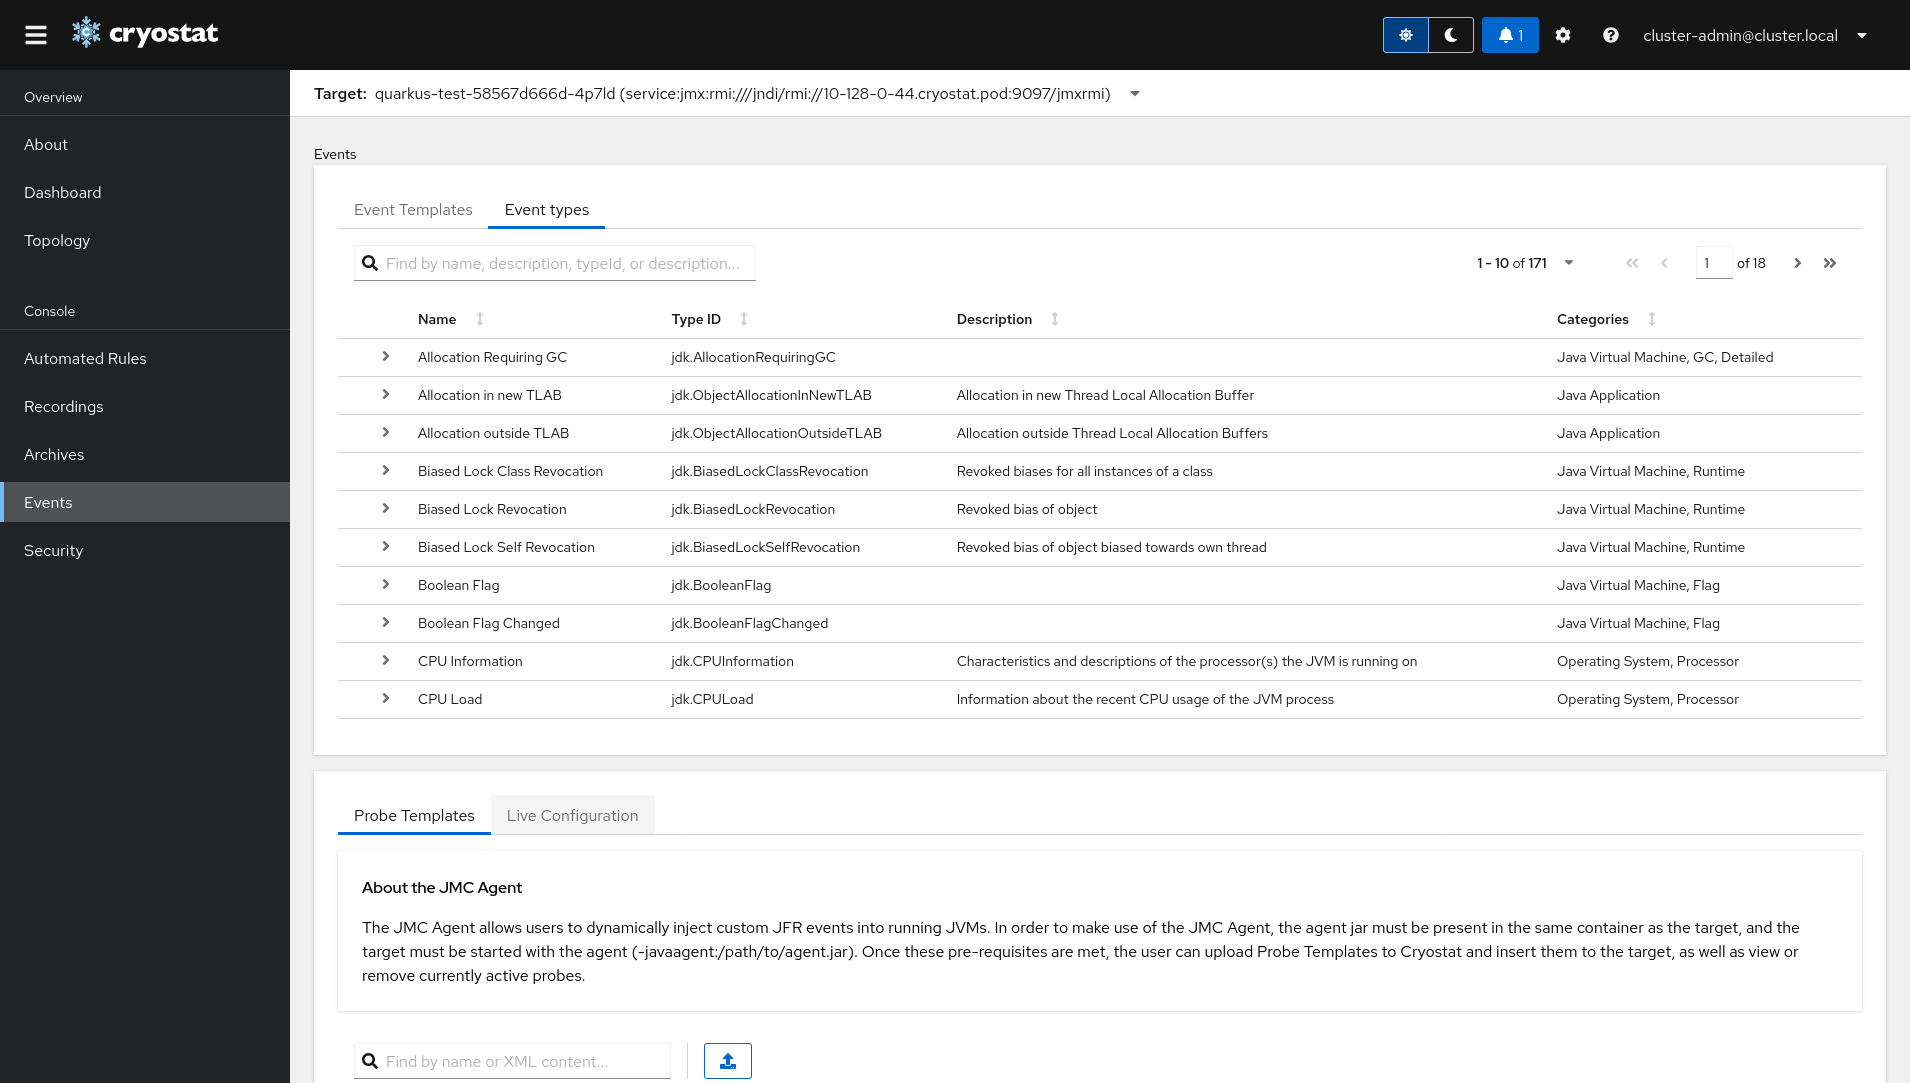
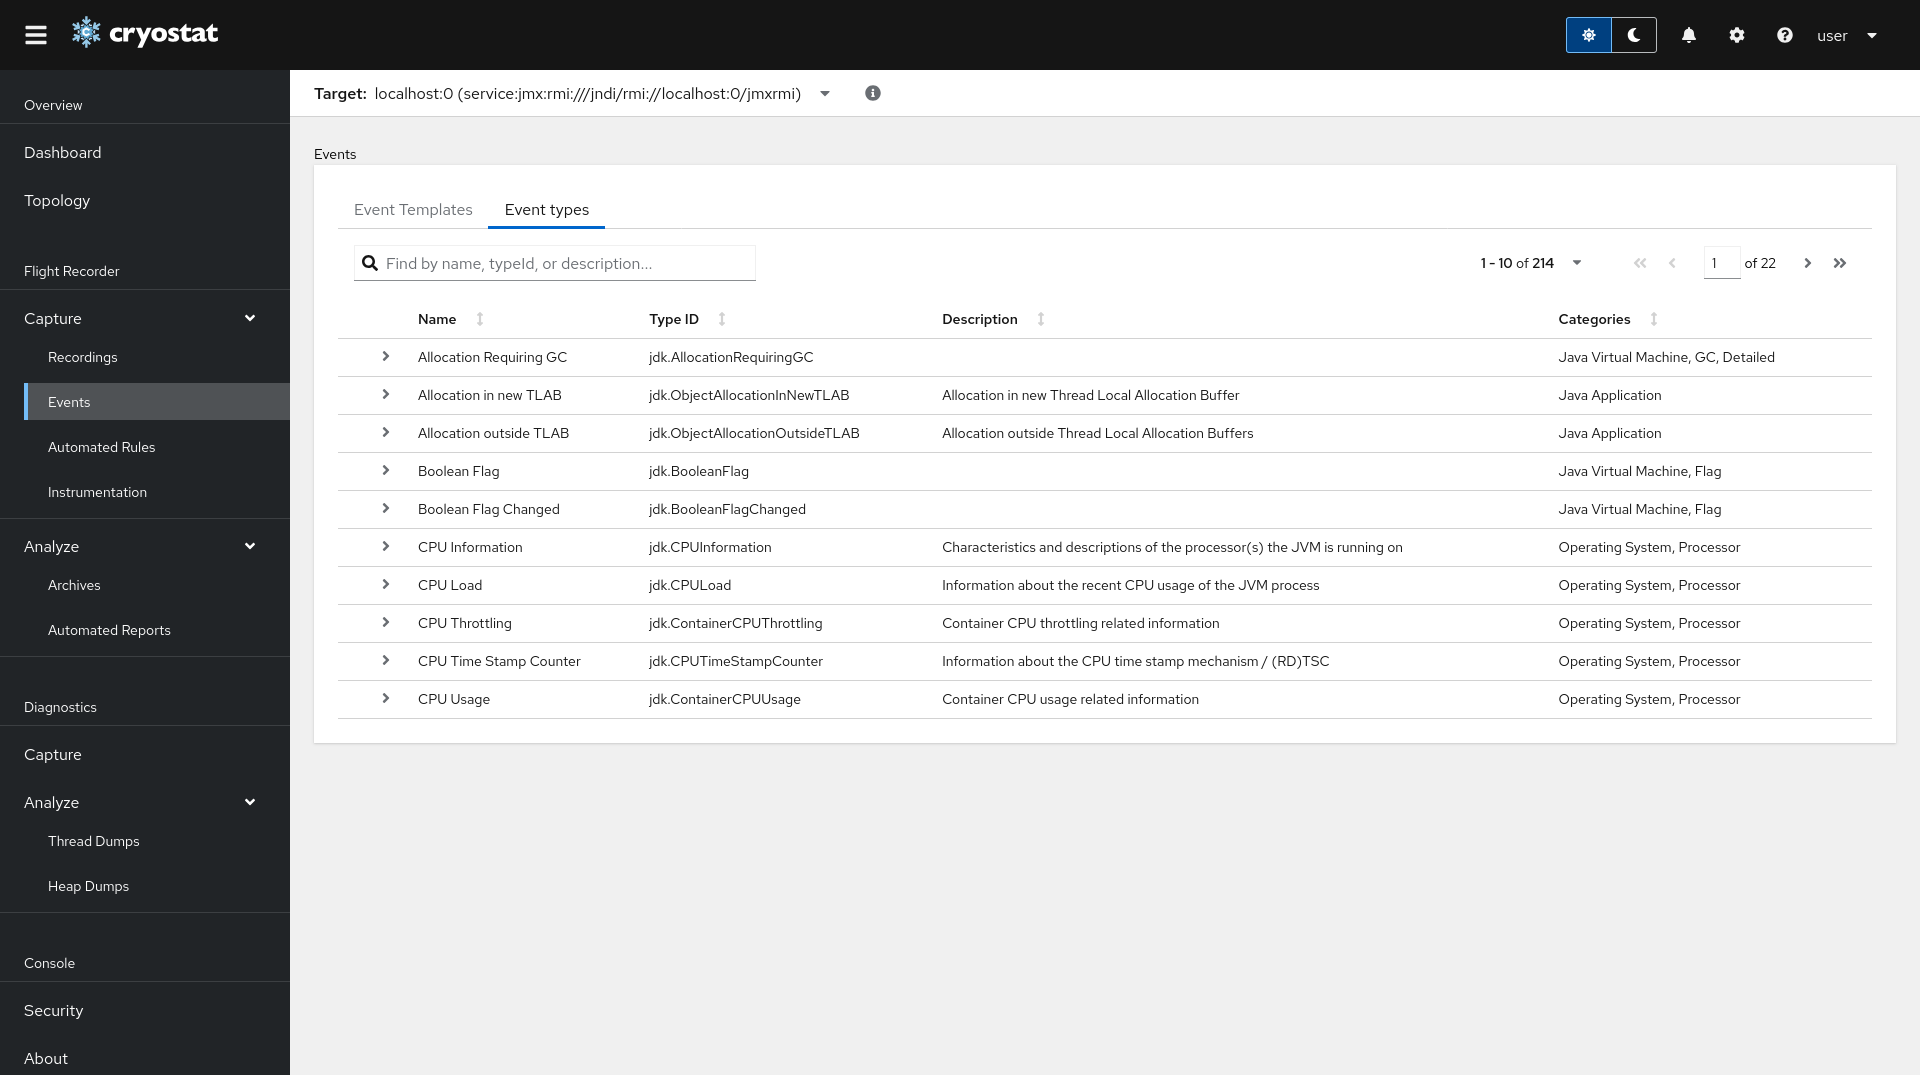
event types

diff --git a/guides/_subsections/common/select-target-application.md b/guides/_subsections/common/select-target-application.md
@@ -4,6 +4,7 @@
 {% capture text-content %}
   If you wish to create a <code>Custom Target</code> from here, click <i>Create Target</i> displayed at the bottom. Go to <a href='#create-a-custom-target'> Create a Custom Target</a> and proceed from step 3.
   Also, see <a href='#using-the-cryostat-agent'> Using the Cryostat Agent</a> section to help discover other <code>targets</code>.
+  {{ include.select-target-application-additional-content }}
 {% endcapture %}
 {% include howto_step.html
   summary="Select the <i>Target Application</i>"

diff --git a/guides/_subsections/view-jfr-event-types.md b/guides/_subsections/view-jfr-event-types.md
@@ -27,7 +27,7 @@ so you can see what kind of data may be captured by **Flight Recordings**.
     </p>
     {% endcapture %}
     {% include howto_step.html
-      summary="Navigate to Events"
+      summary="Navigate to Flight Recorder/Capture/Events"
       image-name="4.1.0/navigate-to-events-1.png"
       caption="
         Supply <b>JMX</b> credentials to authenticate to the target, if necessary. If
